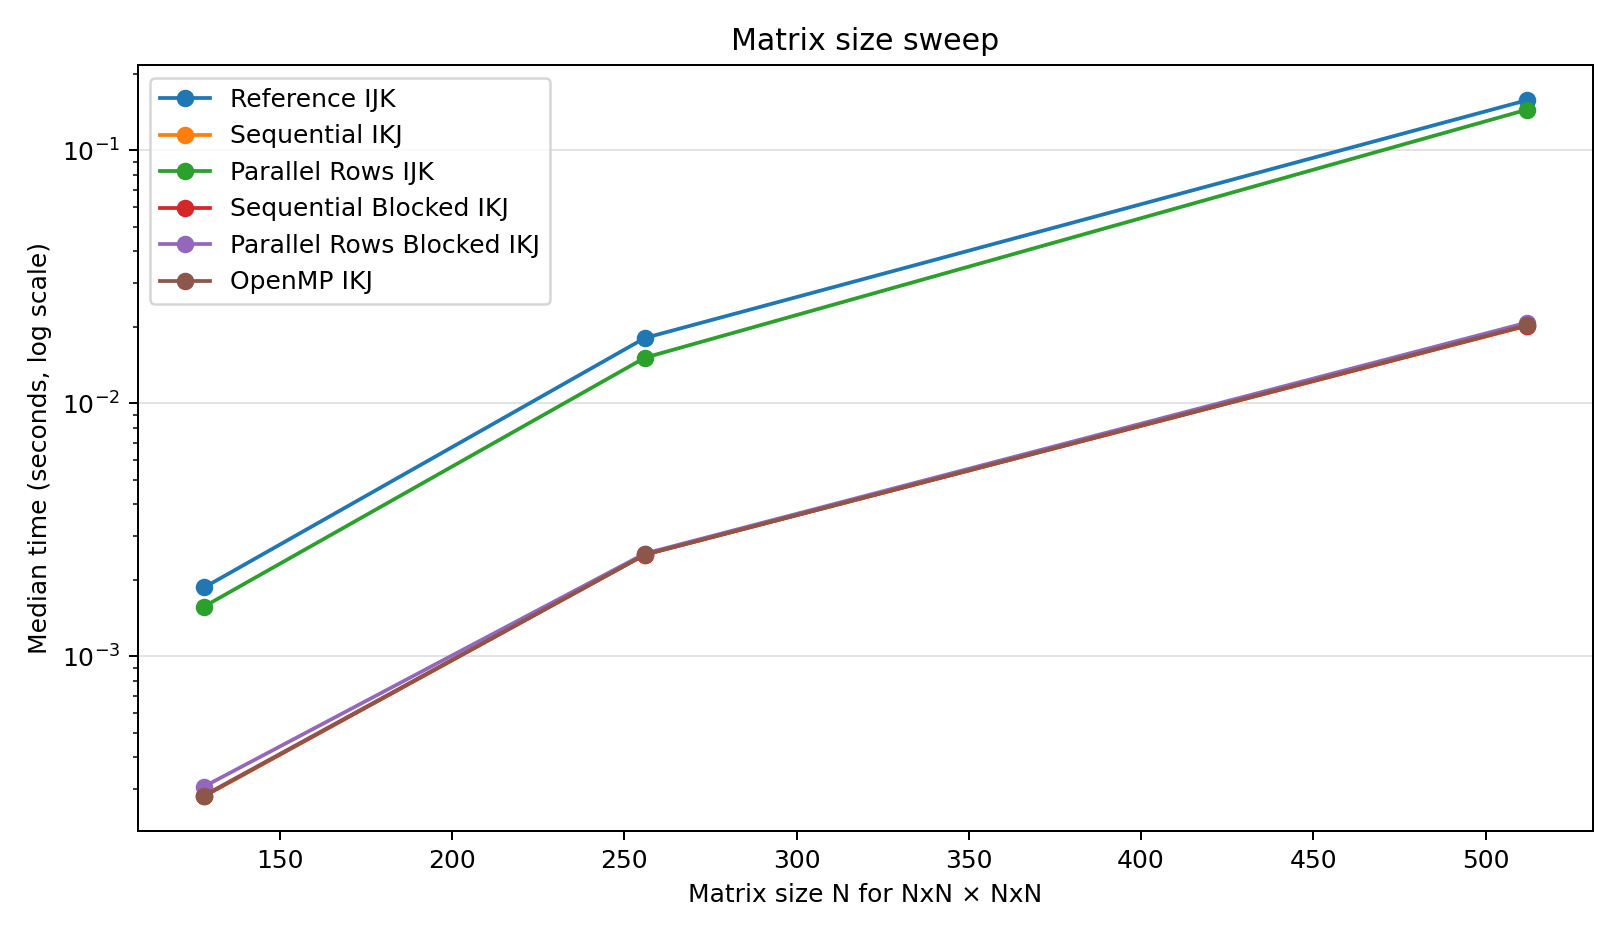
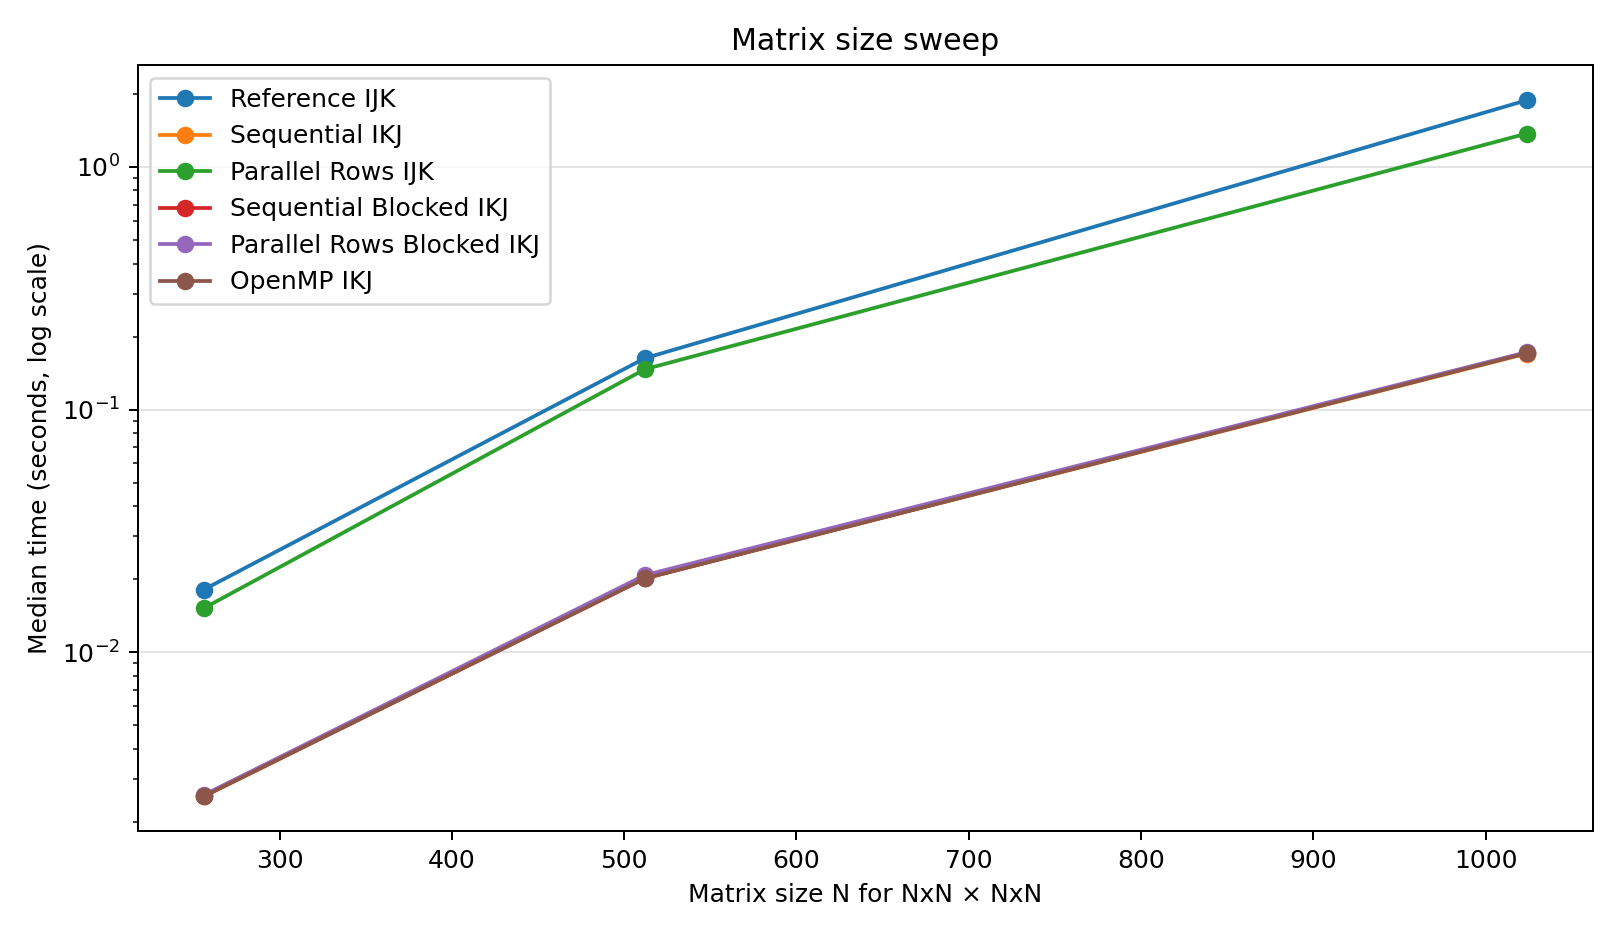
Reduce benchmark iterations to 20 and add 1024 case

diff --git a/src/bench.c b/src/bench.c
@@ -200,19 +200,19 @@ void bench_run_default_suite(const char *output_csv) {
   fprintf(result_file, "sweep,n,threads,block_size,iterations,kernel,time_sec,speedup_vs_ref\n");
 
   // matrix size sweep
-  bench_run_case(128, 128, 128, 1, 128, 100, result_file, "matrix_size");
-  bench_run_case(256, 256, 256, 1, 256, 100, result_file, "matrix_size");
-  bench_run_case(512, 512, 512, 1, 512, 100, result_file, "matrix_size");
+  bench_run_case(256, 256, 256, 1, 256, 20, result_file, "matrix_size");
+  bench_run_case(512, 512, 512, 1, 512, 20, result_file, "matrix_size");
+  bench_run_case(1024, 1024, 1024, 1, 1024, 20, result_file, "matrix_size");
 
   // thread count sweep
-  bench_run_case(512, 512, 512, 2, 512, 100, result_file, "thread_count");
-  bench_run_case(512, 512, 512, 4, 512, 100, result_file, "thread_count");
-  bench_run_case(512, 512, 512, 8, 512, 100, result_file, "thread_count");
+  bench_run_case(512, 512, 512, 2, 512, 20, result_file, "thread_count");
+  bench_run_case(512, 512, 512, 4, 512, 20, result_file, "thread_count");
+  bench_run_case(512, 512, 512, 8, 512, 20, result_file, "thread_count");
 
   // block size sweep
-  bench_run_case(512, 512, 512, 1, 32, 100, result_file, "block_size");
-  bench_run_case(512, 512, 512, 1, 64, 100, result_file, "block_size");
-  bench_run_case(512, 512, 512, 1, 128, 100, result_file, "block_size");
+  bench_run_case(512, 512, 512, 1, 32, 20, result_file, "block_size");
+  bench_run_case(512, 512, 512, 1, 64, 20, result_file, "block_size");
+  bench_run_case(512, 512, 512, 1, 128, 20, result_file, "block_size");
 
   fclose(result_file);
 }